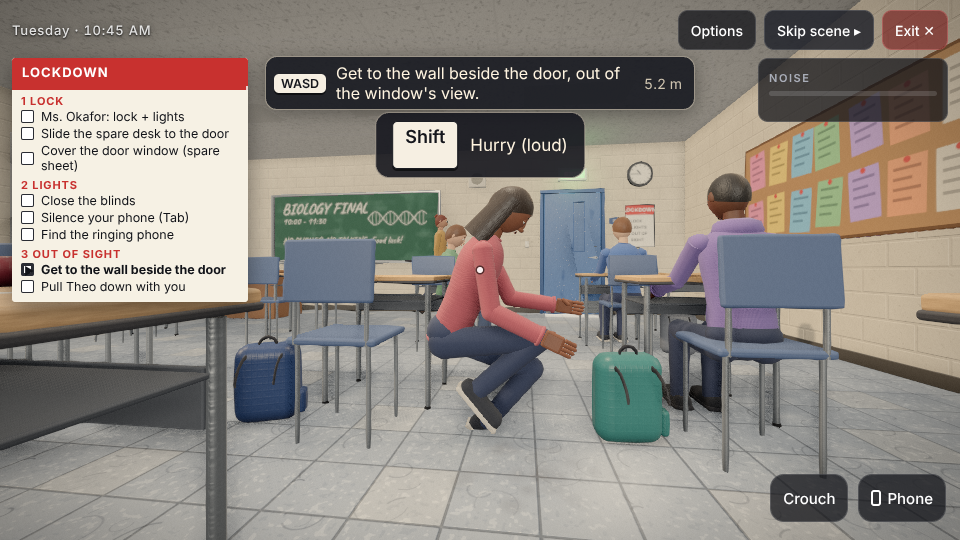
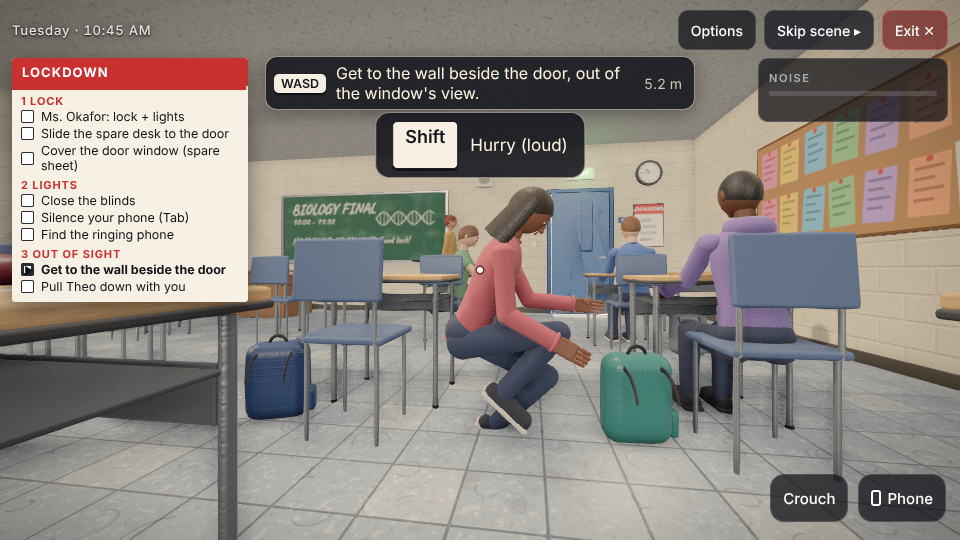
Guidance bot covers the door window from straight in front
Claude-Session: https://claude.ai/code/session_018KZLyLNugzHBmBVNxuDHxq

diff --git a/tests/e2e/guidance.spec.ts b/tests/e2e/guidance.spec.ts
@@ -143,7 +143,8 @@ test('guidance leads the player through all 24 tasks', async ({ page }) => {
           await page.evaluate(() => window.__lockdown.navToTarget('spareSheet', 1.0));
           await clickUntil(page, 'spareSheet', () => page.evaluate(() => window.__lockdown.holdingSheet()));
         } else {
-          await page.evaluate(() => window.__lockdown.navTo(2.1, -3.6, 0.25));
+          // straight in front of the door (Ms. Okafor may already be crouched on the left)
+          await page.evaluate(() => window.__lockdown.navTo(2.75, -3.45, 0.25));
           await clickUntil(page, 'doorWindow', async () => (await state(page)).tasks.coverWindow);
         }
         break;
